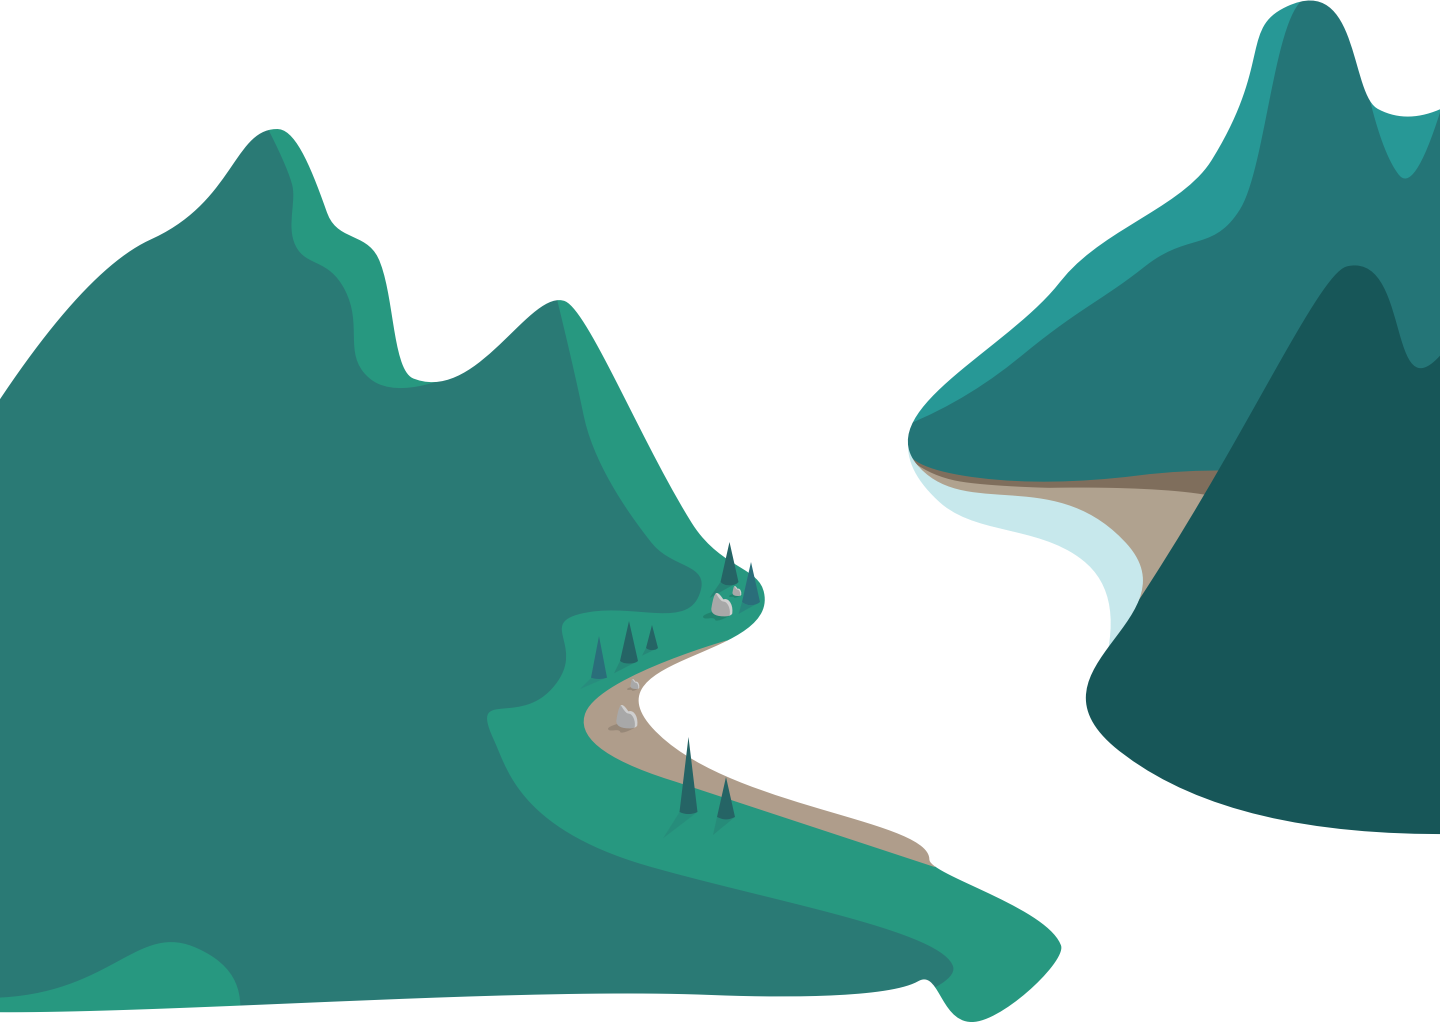
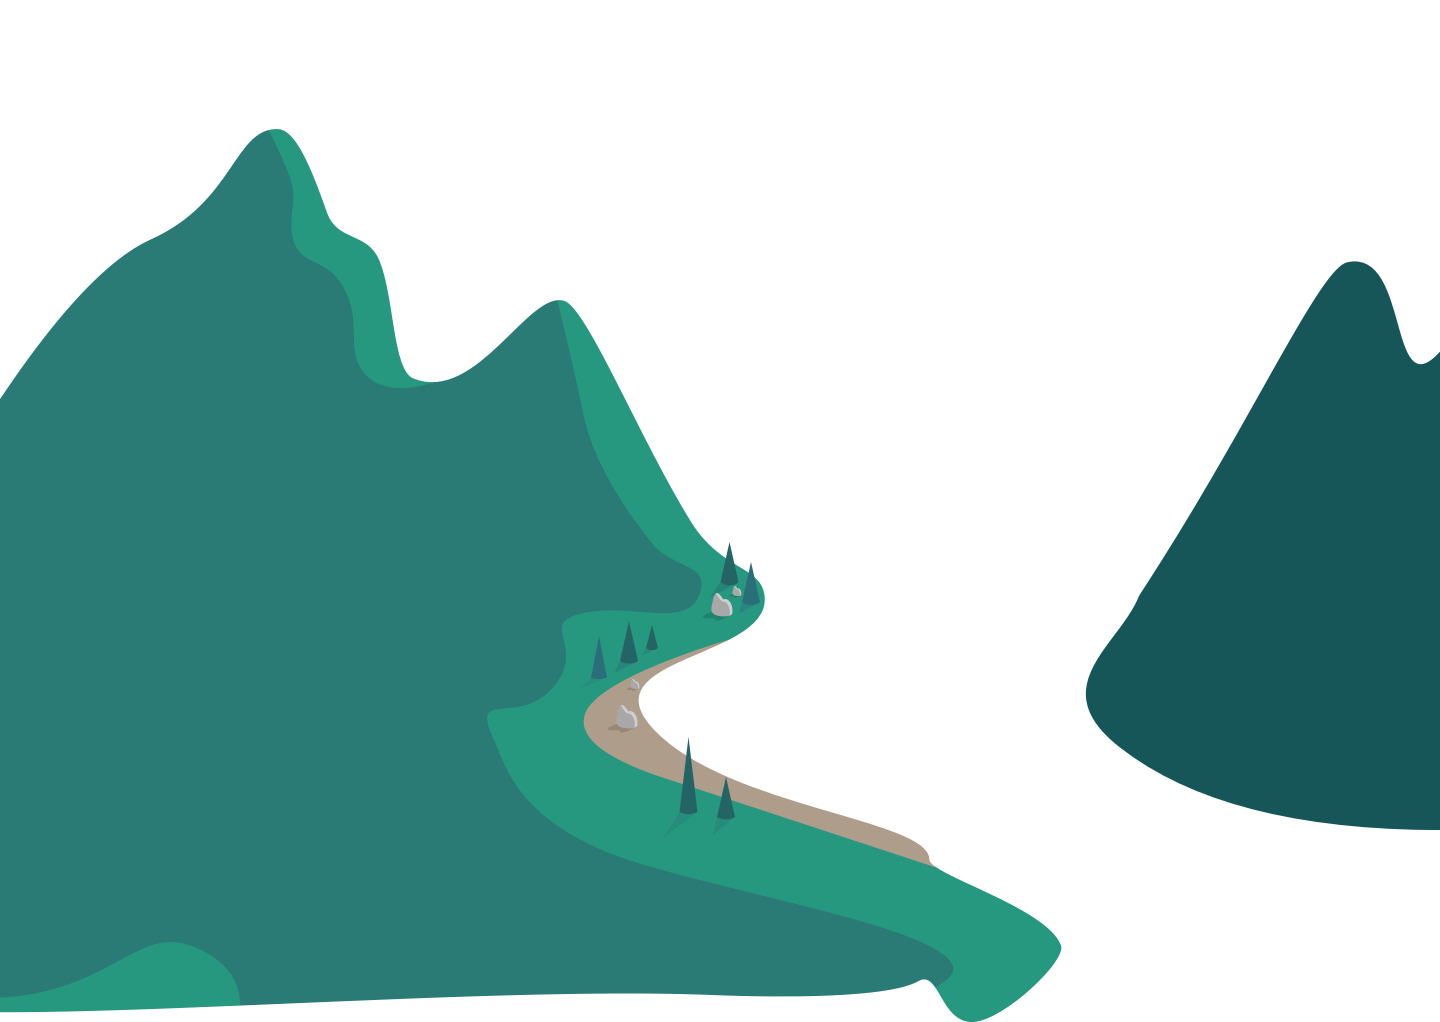
#time 1h 0m parallax improvements

diff --git a/site/index.html b/site/index.html
@@ -10,8 +10,8 @@
 <meta property="og:image" content="https://truetokensale.com/static/images/logos/logo-share-true.png">
 <meta property="og:type" content="website">
 <meta property="og:site_name" content="True">
-<script src="static/js/vendors.js?cache=1562222959600"></script>
-<link rel="stylesheet" href="static/css/styles.css?cache=1562222959600">
+<script src="static/js/vendors.js?cache=1562289027377"></script>
+<link rel="stylesheet" href="static/css/styles.css?cache=1562289027377">
 <link rel="shortcut icon" type="image/x-icon" href="static/images/favicon.png">
 
     </head>
@@ -45,9 +45,11 @@
                 <div class="hero-stage__sun"></div>
             </div>
             <div class="main-site__container">
-                <img class="main-site__trees1" data-scroll-speed="5" src="static/images/ui/scenery/hero-trees1.png" width="100%" />
-                <img class="main-site__trees2" data-scroll-speed="2" src="static/images/ui/scenery/hero-trees2.png" width="100%" />
-                <img class="main-site__background" src="static/images/ui/backgrounds/bg-main-site2.png" width="100%" />
+                <img class="main-site__hills1" data-scroll-speed="-14" src="static/images/ui/scenery/stage-hills1.png" width="100%" />
+                <img class="main-site__hills2" data-scroll-speed="10" src="static/images/ui/scenery/stage-hills2.png" width="100%" />
+                <img class="main-site__hills3" data-scroll-speed="5" src="static/images/ui/scenery/stage-hills3.png" width="100%" />
+                <img class="main-site__hills4" data-scroll-speed="4" src="static/images/ui/scenery/stage-hills4.png" width="100%" />
+                <img class="main-site__background" src="static/images/ui/backgrounds/bg-main-site3.png" width="100%" />
                 <img class="main-site__mountains" data-scroll-speed="-12" src="static/images/ui/scenery/stage-mountains.png" width="100%" />
             </div>
         </div>
@@ -62,6 +64,6 @@
     
         </div> -->
 
-        <script src="static/js/app.js?cache=1562222959600"></script>
+        <script src="static/js/app.js?cache=1562289027377"></script>
     </body>
 </html>

diff --git a/src/html/site/index.html b/src/html/site/index.html
@@ -30,9 +30,11 @@
                 <div class="hero-stage__sun"></div>
             </div>
             <div class="main-site__container">
-                <img class="main-site__trees1" data-scroll-speed="5" src="static/images/ui/scenery/hero-trees1.png" width="100%" />
-                <img class="main-site__trees2" data-scroll-speed="2" src="static/images/ui/scenery/hero-trees2.png" width="100%" />
-                <img class="main-site__background" src="static/images/ui/backgrounds/bg-main-site2.png" width="100%" />
+                <img class="main-site__hills1" data-scroll-speed="-14" src="static/images/ui/scenery/stage-hills1.png" width="100%" />
+                <img class="main-site__hills2" data-scroll-speed="10" src="static/images/ui/scenery/stage-hills2.png" width="100%" />
+                <img class="main-site__hills3" data-scroll-speed="5" src="static/images/ui/scenery/stage-hills3.png" width="100%" />
+                <img class="main-site__hills4" data-scroll-speed="4" src="static/images/ui/scenery/stage-hills4.png" width="100%" />
+                <img class="main-site__background" src="static/images/ui/backgrounds/bg-main-site3.png" width="100%" />
                 <img class="main-site__mountains" data-scroll-speed="-12" src="static/images/ui/scenery/stage-mountains.png" width="100%" />
             </div>
         </div>

diff --git a/src/sass/partials/home.scss b/src/sass/partials/home.scss
@@ -33,7 +33,7 @@ $hero-animation-duration-long: 2s;
 }
 
 .hero-stage__header {
-    transition: opacity $hero-animation-duration-long;
+    transition: opacity $hero-animation-duration;
     font-size: 60px;
     top: 50%;
     font-family: TruenoBlack;
@@ -42,6 +42,9 @@ $hero-animation-duration-long: 2s;
     padding: 10% 30% 10% 10%;
     &.-animate {
         opacity: 1;
+    }
+    &.-fade {
+        opacity: 0;
     }
     h1 {
         font-size: 60px;
@@ -118,16 +121,27 @@ $hero-animation-duration-long: 2s;
     padding-top: 60px;
 }
 
-.main-site__trees1 {
+.main-site__hills1 {
     position: absolute;
-    top: 13%;
+    top: 11.6%;
     z-index: 3;
 }
 
-.main-site__trees2 {
+.main-site__hills2 {
     position: absolute;
-    top: 24%;
-    z-index: 3;
+    top: 11.2%;
+    z-index: 4;
+}
+
+.main-site__hills3 {
+    position: absolute;
+    top: 15%;
+    z-index: 5;
+}
+.main-site__hills4 {
+    position: absolute;
+    top: 31%;
+    z-index: 6;
 }
 
 .main-site__mountains {

diff --git a/site/static/css/styles.css b/site/static/css/styles.css
@@ -198,8 +198,8 @@ a {
 }
 
 .hero-stage__header {
-  -webkit-transition: opacity 2s;
-  transition: opacity 2s;
+  -webkit-transition: opacity 0.9s;
+  transition: opacity 0.9s;
   font-size: 60px;
   top: 50%;
   font-family: TruenoBlack;
@@ -209,6 +209,9 @@ a {
 }
 .hero-stage__header.-animate {
   opacity: 1;
+}
+.hero-stage__header.-fade {
+  opacity: 0;
 }
 .hero-stage__header h1 {
   font-size: 60px;
@@ -293,16 +296,28 @@ a {
   padding-top: 60px;
 }
 
-.main-site__trees1 {
+.main-site__hills1 {
   position: absolute;
-  top: 13%;
+  top: 11.6%;
   z-index: 3;
 }
 
-.main-site__trees2 {
+.main-site__hills2 {
   position: absolute;
-  top: 24%;
-  z-index: 3;
+  top: 11.2%;
+  z-index: 4;
+}
+
+.main-site__hills3 {
+  position: absolute;
+  top: 15%;
+  z-index: 5;
+}
+
+.main-site__hills4 {
+  position: absolute;
+  top: 31%;
+  z-index: 6;
 }
 
 .main-site__mountains {

diff --git a/src/css/styles.css b/src/css/styles.css
@@ -197,7 +197,7 @@ a {
 }
 
 .hero-stage__header {
-  transition: opacity 2s;
+  transition: opacity 0.9s;
   font-size: 60px;
   top: 50%;
   font-family: TruenoBlack;
@@ -207,6 +207,9 @@ a {
 }
 .hero-stage__header.-animate {
   opacity: 1;
+}
+.hero-stage__header.-fade {
+  opacity: 0;
 }
 .hero-stage__header h1 {
   font-size: 60px;
@@ -282,16 +285,28 @@ a {
   padding-top: 60px;
 }
 
-.main-site__trees1 {
+.main-site__hills1 {
   position: absolute;
-  top: 13%;
+  top: 11.6%;
   z-index: 3;
 }
 
-.main-site__trees2 {
+.main-site__hills2 {
   position: absolute;
-  top: 24%;
-  z-index: 3;
+  top: 11.2%;
+  z-index: 4;
+}
+
+.main-site__hills3 {
+  position: absolute;
+  top: 15%;
+  z-index: 5;
+}
+
+.main-site__hills4 {
+  position: absolute;
+  top: 31%;
+  z-index: 6;
 }
 
 .main-site__mountains {

diff --git a/site/static/js/app.js b/site/static/js/app.js
@@ -81,6 +81,7 @@ initHero = debounce(function() {
     $header = $('.hero-stage__header',$heroContainer);
     $clouds = $('.animated-cloud',$heroContainer);
     $birds = $('.animated-bird',$heroContainer);
+    var $window = $(window);
     
     // Enable this if we want the hero to take up the window height
     //$heroContainer.height($(window).height());
@@ -96,6 +97,15 @@ initHero = debounce(function() {
         $header.addClass('-animate');
     }
 
+    window.addEventListener('scroll', function(){
+      var scrollTop = $window.scrollTop();
+      console.log(scrollTop);
+      if (scrollTop > 20) {
+        $header.addClass('-fade');
+      } else {
+        $header.removeClass('-fade');
+      }
+    });
     // start animations
     setTimeout(function() {
         startAnimations();

diff --git a/src/js/app/hero.js b/src/js/app/hero.js
@@ -31,6 +31,7 @@ initHero = debounce(function() {
     $header = $('.hero-stage__header',$heroContainer);
     $clouds = $('.animated-cloud',$heroContainer);
     $birds = $('.animated-bird',$heroContainer);
+    var $window = $(window);
     
     // Enable this if we want the hero to take up the window height
     //$heroContainer.height($(window).height());
@@ -46,6 +47,15 @@ initHero = debounce(function() {
         $header.addClass('-animate');
     }
 
+    window.addEventListener('scroll', function(){
+      var scrollTop = $window.scrollTop();
+      console.log(scrollTop);
+      if (scrollTop > 20) {
+        $header.addClass('-fade');
+      } else {
+        $header.removeClass('-fade');
+      }
+    });
     // start animations
     setTimeout(function() {
         startAnimations();
